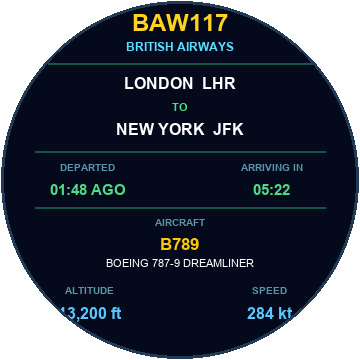
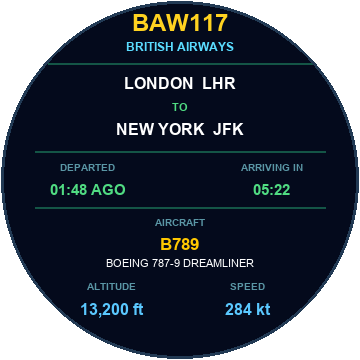
Inset flight detail metrics

Changed region(s): [[0.1528, 0.7639, 0.3972, 0.8861], [0.6111, 0.7639, 0.825, 0.8861]]

diff --git a/tools/render_readme_screenshots.py b/tools/render_readme_screenshots.py
@@ -105,10 +105,10 @@ def render_details() -> Image.Image:
     centered(draw, (CX, 216), "AIRCRAFT", muted, font(10, True))
     centered(draw, (CX, 234), "B789", (255, 200, 0), font(17, True))
     centered(draw, (CX, 257), "BOEING 787-9 DREAMLINER", WHITE, font(11))
-    centered(draw, (90, 284), "ALTITUDE", muted, font(10, True))
-    centered(draw, (SIZE - 90, 284), "SPEED", muted, font(10, True))
-    centered(draw, (90, 304), "13,200 ft", CYAN, font(16, True))
-    centered(draw, (SIZE - 90, 304), "284 kt", CYAN, font(16, True))
+    centered(draw, (112, 280), "ALTITUDE", muted, font(10, True))
+    centered(draw, (SIZE - 112, 280), "SPEED", muted, font(10, True))
+    centered(draw, (112, 300), "13,200 ft", CYAN, font(16, True))
+    centered(draw, (SIZE - 112, 300), "284 kt", CYAN, font(16, True))
     mask = Image.new("L", (SIZE, SIZE), 0)
     ImageDraw.Draw(mask).ellipse((1, 1, SIZE - 2, SIZE - 2), fill=255)
     output = Image.new("RGBA", (SIZE, SIZE), (0, 0, 0, 0))
